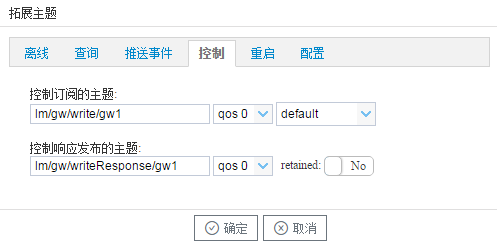
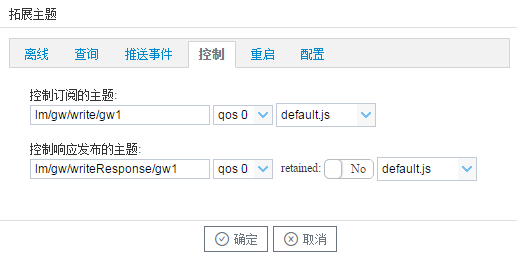
修改模板说明

diff --git a/ch6/ch6-1.md b/ch6/ch6-1.md
@@ -102,9 +102,8 @@
 
   - 网关设备缓存离线数据的容量为20M，当离线数据大于20M时，网关就会缓存新的一条离线数据时，删除最早的一条离线数据。 
   
-- 查询数据主题：在配置界面中“查询数据订阅的主题”一项输入需要订阅的主题，当网关订阅到如下格式的数据，就进行数据查询的操作，网关会在“查询数据发布的主题”发布此次查询到的结果。
+- 查询数据主题：在配置界面中“查询数据订阅的主题”一项输入需要订阅的主题，当选中default.js时，网关订阅到如下格式的数据，就进行数据查询的操作，网关会在“查询数据发布的主题”发布此次查询到的结果。
 
-  
 
 ```json
 {"operate":"read","devices":[
@@ -122,18 +121,30 @@
 
 - 推送事件主题：如果在“报警与事件”(8.1章节)当中配置了报警事件，当报警事件触发或者解除时，网关通过推送事件的主题将该事件发布到Broker。 
 
-- 写操作主题：在配置界面中“写操作订阅的主题”一项输入需要订阅的主题，发布如下格式的数据，写入数据。  
+- 写操作主题：在配置界面中“写操作订阅的主题”一项输入需要订阅的主题，当选中default.js时，发布如下格式的数据，写入数据。  
 
 ```json
  [
    {
      "operate":"write",//操作类型
-     "deviceCode":"Device_1",//采集协议页面中的设备名称
+     "deviceCode":"Device1",//采集协议页面中的设备名称
      "tagCode":"tag0001",//数据点的名称
      "val":"10"//需要写入的数值，字符串类型
    }
  ] 
 
+```
+
+在网关写操作结束，网关会在“控制响应发布的主题”发布此次查询到的结果。以default.js为例。
+
+```json
+{
+    "deviceCode":"Device1",  //采集协议页面中的设备名称
+    "message":"写操作返回信息",
+    "status":true, // true表示写操作成功，false表示写操作失败
+    "tagCode":"tag0001", //数据点的名称
+    "value":"10" //写入的数值，字符串类型
+}
 ```
 
 
@@ -174,7 +185,7 @@ Mqtt Client页面的主题中，实时数据、查询、控制、控制返回、
 
 目前支持8种模板。
 
-1. Alink.js：因为生成的json格式中不包含质量戳，所以需要在“数据过滤”中勾选“采集成功”，生成的json格式如下：
+1. default.js：因为生成的json格式中不包含质量戳，所以需要在“数据过滤”中勾选“采集成功”，生成的json格式如下：
 
 ```json
 {
@@ -304,7 +315,7 @@ Mqtt Client页面的主题中，实时数据、查询、控制、控制返回、
 }
 ```
 
-3. default.js：因为生成的json格式中不包含质量戳，所以需要在“数据过滤”中勾选“采集成功”，生成的json格式如下：
+3. Alink.js：因为生成的json格式中不包含质量戳，所以需要在“数据过滤”中勾选“采集成功”，生成的json格式如下：
 
 ```json
 {
@@ -640,7 +651,26 @@ Mqtt Client页面的主题中，实时数据、查询、控制、控制返回、
 } 
 ```
 
-查询结束后通过“查询数据发布的主题”发布如下json格式的数据：
+2. LMIoT.js：只解析向查询主题发送如下json格式的数据，可以进行仪表下所有数据点的查询。
+
+```js
+{ 
+    "type": "inquire",
+    "time": "1557136546",
+"seq": "230",
+"clientid": "gw1",
+    "devices": [
+            "Device1",
+            "Device2"
+    ]
+}
+```
+
+
+
+**查询返回**
+
+1. default.js：查询结束后通过“查询数据发布的主题”发布如下json格式的数据：
 
 ```json
 {
@@ -662,22 +692,7 @@ Mqtt Client页面的主题中，实时数据、查询、控制、控制返回、
 
 
 
-2. LMIoT.js：只解析向查询主题发送如下json格式的数据，可以进行仪表下所有数据点的查询。
-
-```js
-{ 
-    "type": "inquire",
-    "time": "1557136546",
-"seq": "230",
-"clientid": "gw1",
-    "devices": [
-            "Device1",
-            "Device2"
-    ]
-}
-```
-
-查询结束后通过“查询数据发布的主题”发布如下json格式的数据：
+2. LMIoT.js：查询结束后通过“查询数据发布的主题”发布如下json格式的数据：
 
 ```json
 {
